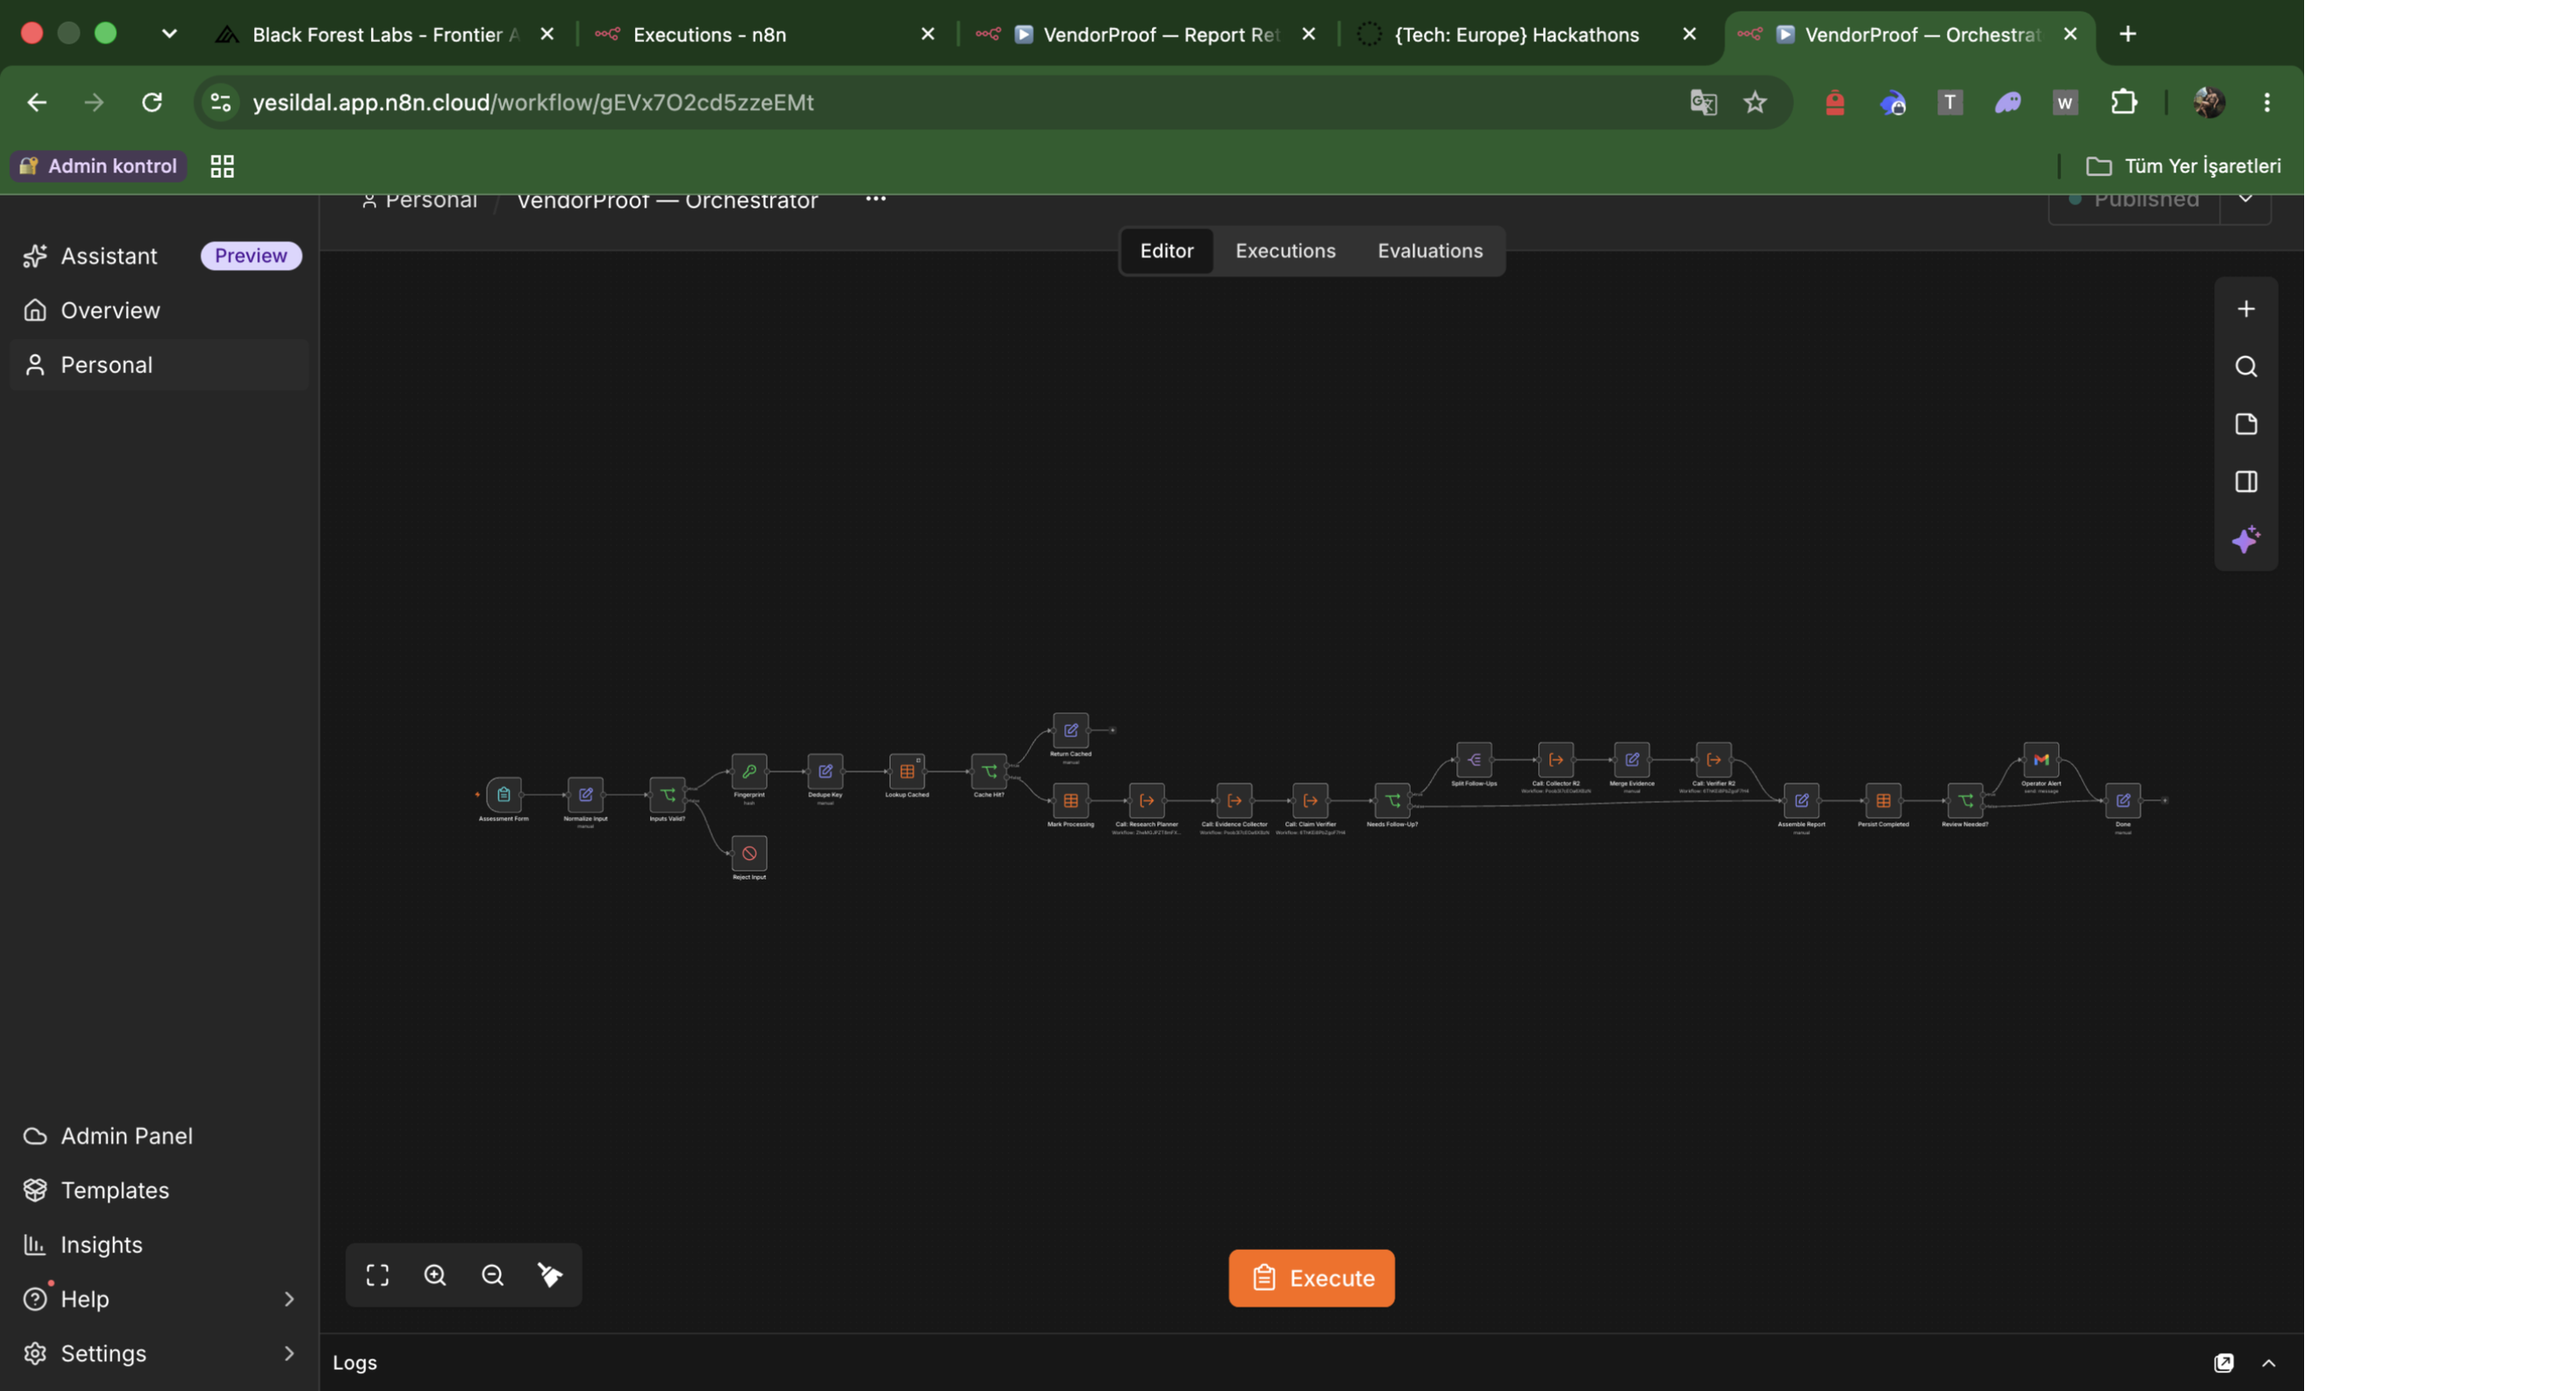
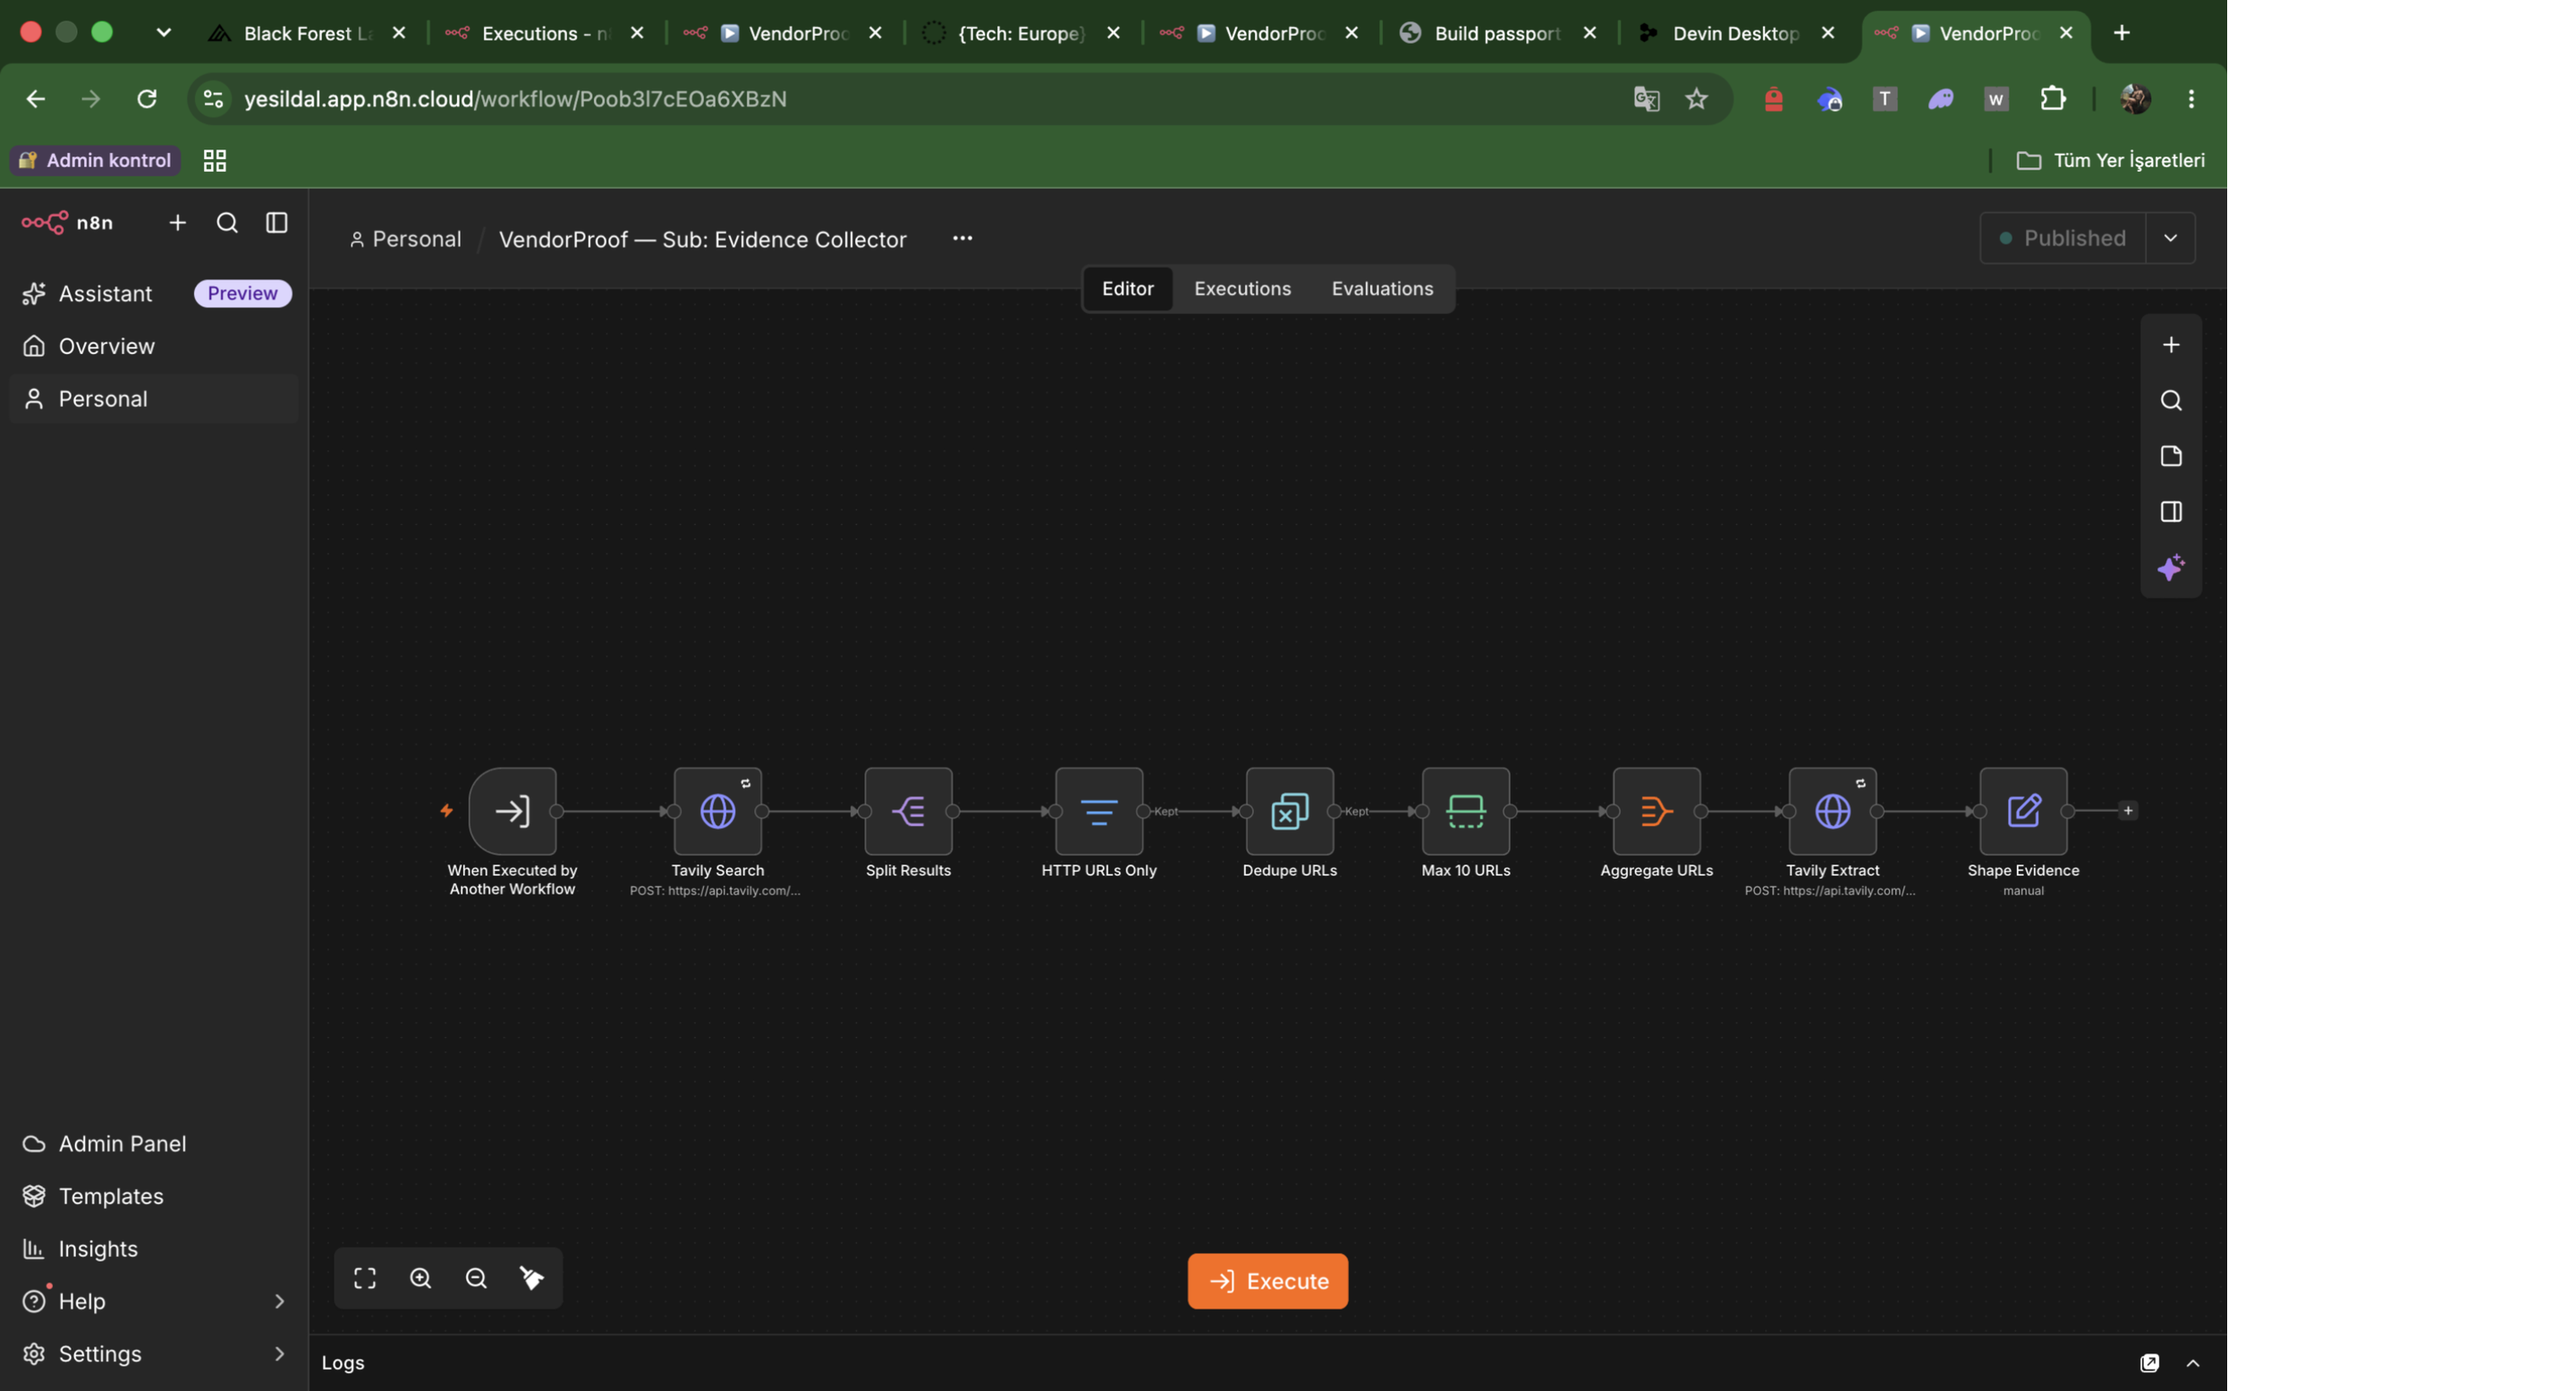
Embed live n8n canvas + rendered report artifacts in deck
Captured via computer-use from the running instance: orchestrator
canvas, evidence-collector native-node chain, claim-verifier chain,
a green execution (ID#51), and the real Nimbus fake-vendor report.
Slide 4 now shows the actual rendered report; slide 5 shows both
canvas levels.

Generated with [Devin](https://devin.ai)

diff --git a/pitch-deck.html b/pitch-deck.html
@@ -207,32 +207,19 @@
   <!-- 04 — PROOF: fake vendor (dark, theatrical) -->
   <div class="slide dark">
     <div class="eyebrow">03 — The test nobody else ran</div>
-    <div class="col">
-      <h2 class="headline in" style="max-width: 26ch;">We gave it a vendor that <em>doesn't exist.</em></h2>
-      <div class="in d2" style="margin-top: 44px; max-width: 900px;">
-        <table class="ledger">
-          <thead>
-            <tr><th style="width: 26%;">Finding — "Nimbus Quantum Systems GmbH"</th><th style="width: 18%;">Topic</th><th style="width: 26%;">Cited source actually says</th><th>Verdict</th></tr>
-          </thead>
-          <tbody>
-            <tr>
-              <td class="mono" style="font-size: 13px;">Claim ×12</td>
-              <td>security · breach · funding</td>
-              <td>unrelated "Nimbus" companies</td>
-              <td class="verdict bad">INSUFFICIENT_EVIDENCE</td>
-            </tr>
-            <tr>
-              <td class="mono" style="font-size: 13px;">Claim +1</td>
-              <td>identity</td>
-              <td>"Nimbus AdTech is a different company"</td>
-              <td class="verdict" style="color: var(--accent);">CONTRADICTED</td>
-            </tr>
-          </tbody>
-        </table>
+    <div class="col" style="flex-direction: row; align-items: center; gap: 64px;">
+      <div style="flex: 1; min-width: 0;">
+        <h2 class="headline in" style="max-width: 22ch;">We gave it a vendor that <em>doesn't exist.</em></h2>
+        <p class="in d3" style="margin-top: 44px; font-family: var(--serif); font-size: clamp(22px, 2.1vw, 30px); line-height: 1.35; max-width: 26ch;">
+          Every other tool would have confidently written the report anyway. <span class="accent">Ours refused.</span>
+        </p>
+        <p class="mono in d4" style="margin-top: 40px; font-size: 12px; letter-spacing: 0.14em; color: rgba(242,241,236,0.5); text-transform: uppercase;">
+          Actual report — rendered by the live system
+        </p>
       </div>
-      <p class="in d3" style="margin-top: 44px; font-family: var(--serif); font-size: clamp(22px, 2.2vw, 30px); line-height: 1.3; max-width: 34ch;">
-        Every other tool would have confidently written the report anyway. <span class="accent">Ours refused.</span>
-      </p>
+      <div class="in d2" style="flex: 1.15; min-width: 0;">
+        <img src="assets/vp-report-crop.png" alt="VendorProof report for Nimbus Quantum Systems GmbH — every finding insufficient_evidence or contradicted" style="width: 100%; border: 1px solid rgba(242,241,236,0.18);">
+      </div>
     </div>
     <div class="pagenum" style="color: rgba(242,241,236,0.4);">04 / 07</div>
     <div class="notes"><b>THE 10-SECOND PEAK</b> This is the whole pitch in one slide. Fake vendor → zero fabrication → honest failure report + review flag. If wifi allows, show it live: submit a nonsense company, watch every claim come back insufficient_evidence. Pause after "Ours refused."</div>
@@ -243,21 +230,16 @@
     <div class="eyebrow">04 — Under the hood</div>
     <div class="col">
       <h2 class="headline in" style="max-width: 22ch;">One orchestrator. Three sub-workflows. <em>This is the real canvas.</em></h2>
-      <div class="in d2" style="margin-top: 36px;">
-        <img src="assets/n8n-orchestrator-tight.png" alt="VendorProof orchestrator on the n8n canvas" style="width: 100%; max-width: 1240px; border: 1px solid var(--hairline);">
-        <p class="mono" style="font-size: 11.5px; letter-spacing: 0.1em; color: var(--muted); margin-top: 14px; text-transform: uppercase;">
-          n8n Cloud — live orchestrator · Form → validate → dedupe → 3× Execute Workflow → bounded follow-up → persist → Gmail alert
-        </p>
+      <div class="in d2" style="margin-top: 32px;">
+        <p class="mono" style="font-size: 10.5px; letter-spacing: 0.14em; color: var(--accent); text-transform: uppercase; margin-bottom: 10px;">Orchestrator — live canvas</p>
+        <img src="assets/n8n-orchestrator-tight.png" alt="VendorProof orchestrator on the n8n canvas" style="width: 100%; max-width: 1180px; border: 1px solid var(--hairline);">
       </div>
-      <div class="in d3" style="margin-top: 40px; display: flex; gap: 0; max-width: 1100px; border-top: 1px solid var(--ink); padding-top: 24px;">
-        <div style="flex: 1; padding-right: 40px;">
-          <p class="mono" style="font-size: 11px; letter-spacing: 0.14em; color: var(--accent); text-transform: uppercase; margin-bottom: 10px;">3 sub-workflows</p>
-          <p class="small" style="font-size: 15px; color: var(--ink-soft);">Planner · Evidence Collector · Claim Verifier — each published, each callable via Execute Workflow, each spawning its own execution trace.</p>
-        </div>
-        <div style="flex: 1; padding-left: 40px; border-left: 1px solid var(--hairline);">
-          <p class="mono" style="font-size: 11px; letter-spacing: 0.14em; color: var(--accent); text-transform: uppercase; margin-bottom: 10px;">Native-node pipeline</p>
-          <p class="small" style="font-size: 15px; color: var(--ink-soft);">Search fan-out runs on Split Out, Filter, Remove Duplicates, Limit, Aggregate. Code nodes exist only where logic <em>is</em> the product.</p>
-        </div>
+      <div class="in d3" style="margin-top: 30px;">
+        <p class="mono" style="font-size: 10.5px; letter-spacing: 0.14em; color: var(--accent); text-transform: uppercase; margin-bottom: 10px;">Sub-workflow: evidence collector — zero code nodes</p>
+        <img src="assets/n8n-collector-tight.png" alt="Evidence collector sub-workflow: Tavily Search, Split, Filter, Dedupe, Limit, Aggregate, Extract" style="width: 100%; max-width: 1180px; border: 1px solid var(--hairline);">
+        <p class="small" style="margin-top: 18px; font-size: 14px; max-width: 100ch;">
+          Three published sub-workflows called via Execute Workflow — Planner, Collector, Verifier. Split Out, Filter, Remove Duplicates, Limit, Aggregate carry the fan-out; code exists only where logic <em>is</em> the product.
+        </p>
       </div>
     </div>
     <div class="pagenum">05 / 07</div>
